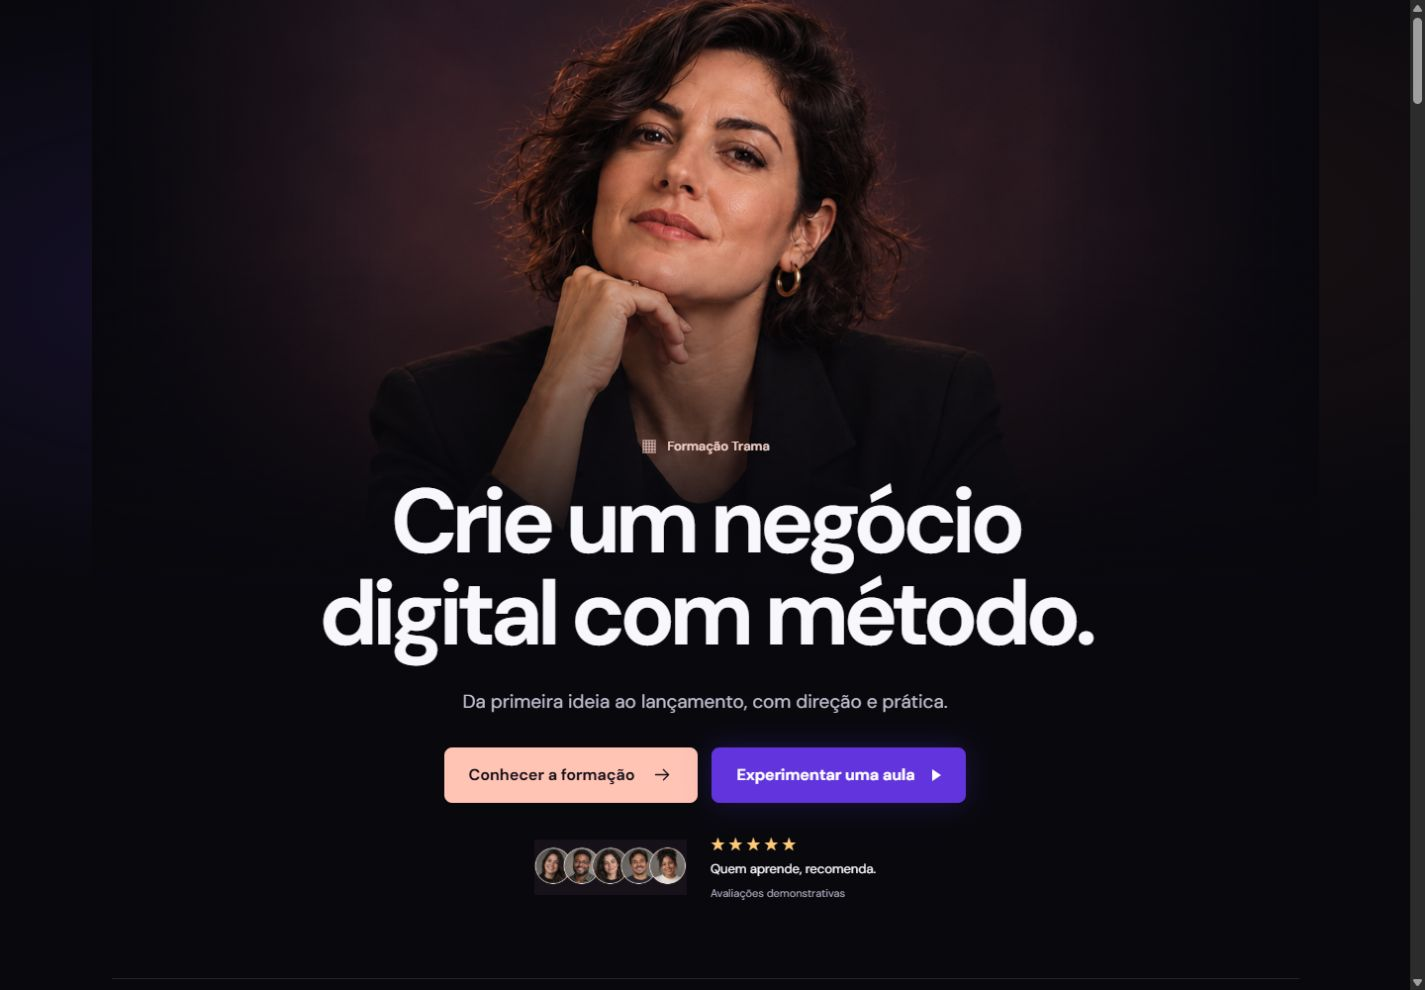
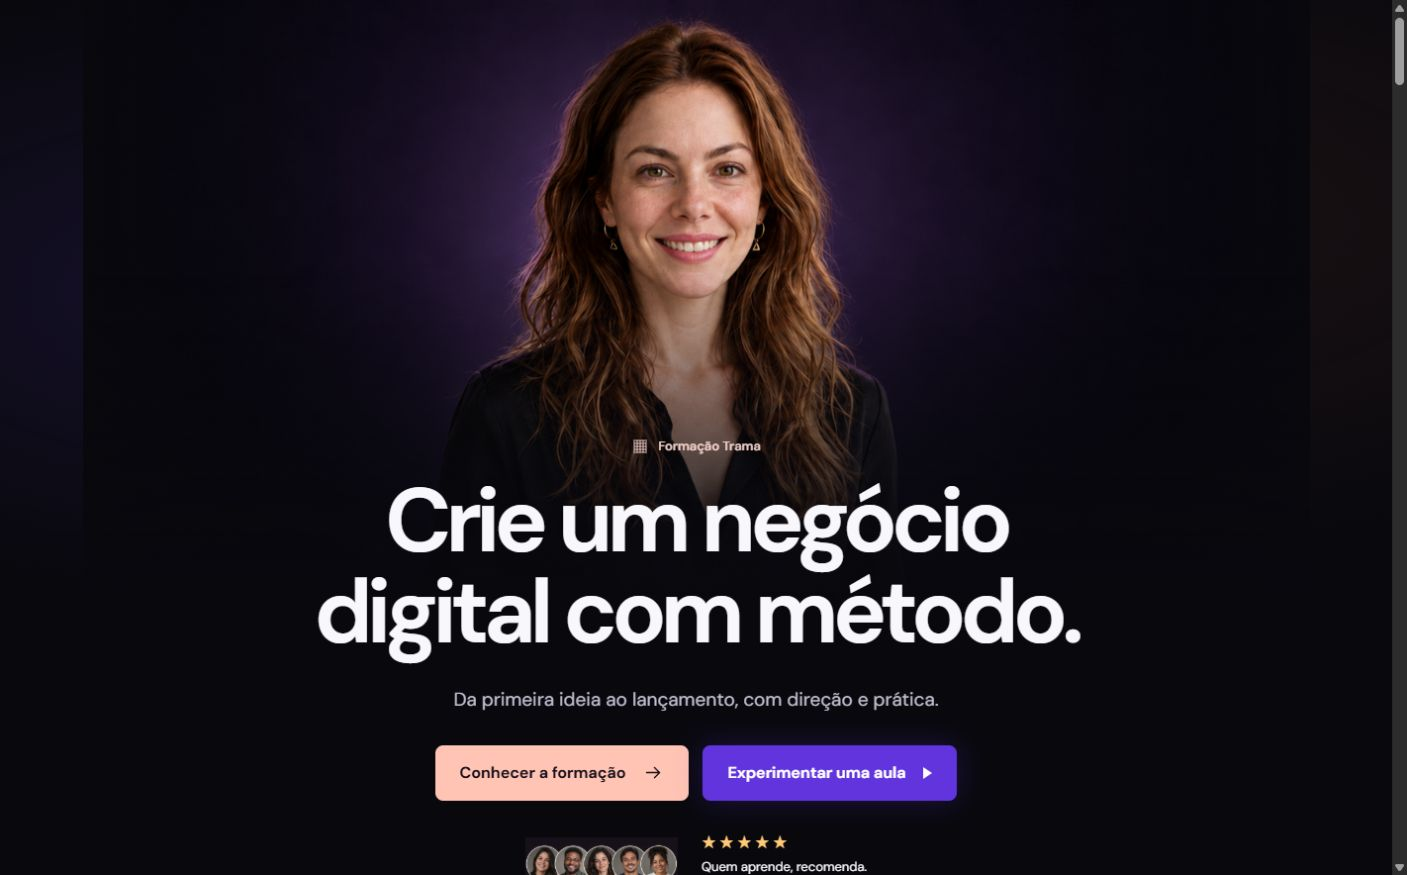
fix(sites): apresentar Bia e desobstruir painel da Trama

diff --git a/sites/website-digital-marketing/src/style.css b/sites/website-digital-marketing/src/style.css
@@ -56,7 +56,7 @@ p { line-height: 1.65; }
 .hero { position: relative; isolation: isolate; overflow: hidden; text-align: center; padding-bottom: 32px; }
 .hero-glow { position: absolute; z-index: -1; inset: 0 0 25%; background: radial-gradient(ellipse at 20% 36%, #7044d627, transparent 42%), radial-gradient(ellipse at 82% 28%, #a3564320, transparent 40%); }
 .hero-portrait { position: relative; width: min(1240px, 100%); height: clamp(450px, 43vw, 610px); margin: auto; animation: hero-enter 1.1s both; }
-.hero-portrait img { width: 100%; height: 100%; object-fit: cover; object-position: center 15%; }
+.hero-portrait img { width: 100%; height: 100%; object-fit: cover; object-position: center top; }
 .hero-portrait::after { content: ''; position: absolute; inset: 0; background: linear-gradient(0deg, var(--black) 0%, #08080de0 12%, transparent 58%), linear-gradient(90deg, var(--black), transparent 23%, transparent 77%, var(--black)); }
 .hero-content { position: relative; margin-top: -170px; z-index: 1; animation: hero-enter .9s .15s both; }
 .hero-brand { display: flex; align-items: center; justify-content: center; gap: 9px; color: #f4d2cb; font-size: 13px; font-weight: 550; margin-bottom: 20px; }
@@ -78,8 +78,8 @@ p { line-height: 1.65; }
 .icon-tile { display: inline-flex; justify-content: center; align-items: center; width: 44px; height: 44px; border: 1px solid #c7a4ff26; border-radius: 10px; color: #c4afff; background: #9e7bff10; margin-bottom: 20px; }
 .challenge-card p { font-size: 17px; line-height: 1.5; }
 .overview { padding-bottom: 70px; }
-.formation-scene { position: relative; min-height: 520px; display: flex; align-items: center; margin: 0 auto 90px; max-width: 1110px; }
-.formation-window { position: relative; width: 78%; margin-left: 16%; border: 1px solid #8a70ba66; border-radius: 14px; overflow: hidden; background: #181327; box-shadow: 0 40px 100px #0006, 0 0 130px #5833c525; }
+.formation-scene { position: relative; display: grid; grid-template-columns: minmax(0, .28fr) minmax(0, 1fr); align-items: center; gap: 28px 48px; margin: 0 auto 90px; max-width: 1110px; }
+.formation-window { position: relative; grid-column: 2; grid-row: 1; min-width: 0; border: 1px solid #8a70ba66; border-radius: 14px; overflow: hidden; background: #181327; box-shadow: 0 40px 100px #0006, 0 0 130px #5833c525; }
 .window-bar { display: flex; align-items: center; justify-content: space-between; padding: 14px 18px; background: #784cdd; color: #f8edff; font-size: 12px; }
 .window-bar > span { display: flex; align-items: center; gap: 5px; }
 .window-bar svg { width: 15px; height: 15px; margin-right: 5px; }
@@ -94,10 +94,10 @@ p { line-height: 1.65; }
 .window-modules svg { color: #c3a9ff; }
 .window-note { font-size: 12px; display: flex; align-items: center; gap: 8px; color: #b9aecf; }
 .mini-dot { width: 6px; height: 6px; border-radius: 50%; background: var(--peach); flex-shrink: 0; }
-.scene-workbook { position: absolute; width: 27%; left: 0; top: 64px; z-index: 2; transform: rotate(-7deg); border: 5px solid #f0dcce; border-radius: 8px; box-shadow: 0 30px 60px #0005; overflow: hidden; background: #f0dcce; color: #271b23; }
+.scene-workbook { grid-column: 1; grid-row: 1; width: 100%; transform: rotate(-7deg); border: 5px solid #f0dcce; border-radius: 8px; box-shadow: 0 30px 60px #0005; overflow: hidden; background: #f0dcce; color: #271b23; }
 .scene-workbook img { width: 100%; aspect-ratio: 1; object-fit: cover; }
 .scene-workbook > span { display: block; font-size: 12px; text-align: center; padding: 8px 5px; font-weight: 600; }
-.scene-note { position: absolute; bottom: 0; right: 0; display: flex; align-items: center; gap: 20px; background: var(--peach); color: #3d1f28; padding: 22px; border-radius: 10px; transform: rotate(6deg); box-shadow: 0 20px 60px #0004; }
+.scene-note { grid-column: 2; grid-row: 2; justify-self: end; margin-right: 10px; display: flex; align-items: center; gap: 20px; background: var(--peach); color: #3d1f28; padding: 22px; border-radius: 10px; transform: rotate(6deg); box-shadow: 0 20px 60px #0004; }
 .scene-note p { line-height: 1.1; font-size: 25px; letter-spacing: -.04em; font-weight: 600; }
 .feature-card { padding: 30px; border: 1px solid #ffffff1c; border-radius: 18px; background: #ffffff04; }
 .feature-card h3 { font-size: 23px; max-width: 260px; margin-bottom: 16px; }
@@ -331,7 +331,7 @@ summary::-webkit-details-marker { display: none; }
   .hero-portrait { height: 500px; }.hero-content { margin-top: -130px; }.hero h1 { font-size: clamp(49px, 7vw, 68px); }
   .hero-subtitle { font-size: 17px; }.course-facts { display: grid; grid-template-columns: 1fr 1fr; padding-block: 20px; gap: 17px; margin-top: 54px; }.course-facts > span { font-size: 12px; }
   .challenge-grid, .feature-grid { grid-template-columns: 1fr 1fr; gap: 16px; }
-  .formation-scene { min-height: 430px; margin-bottom: 60px; }.formation-window { width: 88%; margin-left: 10%; }.window-content { padding: 26px; }.window-heading > strong { font-size: 30px; }.scene-workbook { width: 27%; top: 135px; }.scene-note { padding: 15px; gap: 10px; }.scene-note p { font-size: 21px; }
+  .formation-scene { grid-template-columns: repeat(2, minmax(0, 1fr)); gap: 32px; margin-bottom: 60px; }.formation-window { grid-column: 1 / -1; }.window-content { padding: 26px; }.window-heading > strong { font-size: 30px; }.scene-workbook { grid-row: 2; width: min(230px, 100%); justify-self: center; }.scene-note { justify-self: center; margin-right: 0; padding: 15px; gap: 10px; }.scene-note p { font-size: 21px; }
   .program { padding-top: 15px; }.curriculum-grid { grid-template-columns: 1fr; }.curriculum-list { gap: 14px; }.module-card summary { padding: 21px; font-size: 16px; }.module-number { font-size: 11px; }
   .lesson-preview-card { display: grid; grid-template-columns: 1fr 1fr; }.lesson-poster { height: 340px; }.lesson-preview-copy { display: flex; flex-direction: column; justify-content: center; }
   .project-grid { grid-template-columns: 1fr; gap: 28px; }.project-card { display: grid; grid-template-columns: 1fr 1fr; }.project-copy h3 { font-size: 24px; }.project-art { height: 100%; min-height: 325px; aspect-ratio: auto; }.project-art > p { font-size: 35px; left: 24px; }.project-art-caption { left: 24px; font-size: 10px; }
@@ -348,7 +348,7 @@ summary::-webkit-details-marker { display: none; }
   .hero-content { margin-top: -95px; }.hero h1 { font-size: clamp(43px, 11.6vw, 66px); line-height: 1.02; letter-spacing: -.06em; }.hero-brand { font-size: 11px; margin-bottom: 18px; }.hero-brand svg { width: 15px; height: 15px; }.hero-subtitle { font-size: 16px; max-width: 330px; margin-top: 23px; }
   .hero-actions { flex-direction: column; align-items: stretch; gap: 12px; max-width: 360px; margin: 26px auto 0; }.hero-actions .button { min-height: 54px; font-size: 14px; }.social-proof { gap: 15px; margin-top: 26px; }.social-proof > img { width: 126px; height: 48px; }.proof-stars { font-size: 15px; letter-spacing: 2px; }.social-proof p { font-size: 11px; }.social-proof small { font-size: 10px; }.course-facts { margin-top: 40px; gap: 18px 14px; }.course-facts > span { font-size: 10px; line-height: 1.4; }.course-facts svg { width: 17px; height: 17px; }
   .challenge-grid, .feature-grid { grid-template-columns: 1fr; }.challenge-card { display: flex; align-items: center; gap: 18px; padding: 22px; min-height: 100px; border-radius: 12px; }.challenge-card .icon-tile { flex-shrink: 0; margin: 0; width: 39px; height: 39px; }.challenge-card p { font-size: 16px; }.section-closing { font-size: 12px; margin-top: 26px; }
-  .overview { padding-bottom: 55px; }.formation-scene { min-height: 440px; margin-top: 5px; margin-bottom: 50px; align-items: start; padding-top: 10px; }.formation-window { width: 100%; margin-left: 0; }.window-bar { font-size: 10px; padding: 12px; }.window-bar > span:last-child { display: none; }.window-content { padding: 24px 19px 28px; }.window-heading > span { font-size: 10px; }.window-heading > strong { font-size: 29px; }.window-modules { margin-top: 24px; gap: 9px; }.window-modules > div { padding: 11px 9px; gap: 7px; }.window-modules p { font-size: 10px; }.window-modules > div > span { font-size: 10px; }.window-modules svg { display: none; }.window-note { font-size: 9px; }.scene-workbook { width: 135px; top: auto; bottom: 3px; left: 18px; }.scene-workbook > span { font-size: 9px; padding: 5px; }.scene-note { right: 7px; bottom: 14px; gap: 10px; padding: 14px; }.scene-note p { font-size: 20px; }.scene-note svg { width: 22px; height: 22px; }
+  .overview { padding-bottom: 55px; }.formation-scene { gap: 28px 16px; margin-top: 5px; margin-bottom: 50px; padding-top: 10px; }.window-bar { font-size: 10px; padding: 12px; }.window-bar > span:last-child { display: none; }.window-content { padding: 24px 19px 28px; }.window-heading > span { font-size: 10px; }.window-heading > strong { font-size: 29px; }.window-modules { margin-top: 24px; gap: 9px; }.window-modules > div { padding: 11px 9px; gap: 7px; }.window-modules p { font-size: 10px; }.window-modules > div > span { font-size: 10px; }.window-modules svg { display: none; }.window-note { font-size: 9px; }.scene-workbook { width: min(135px, 100%); }.scene-workbook > span { font-size: 9px; padding: 5px; }.scene-note { gap: 10px; padding: 14px; }.scene-note p { font-size: 20px; }.scene-note svg { width: 22px; height: 22px; }
   .feature-card { padding: 26px; border-radius: 14px; }.feature-card h3 { font-size: 23px; max-width: none; margin-bottom: 14px; }.feature-card p { font-size: 14px; }.feature-card .icon-tile { margin-bottom: 20px; }
   .program { padding-top: 10px; }.curriculum-grid { gap: 26px; }.module-card summary { padding: 18px 14px; gap: 9px; font-size: 14px; min-height: 72px; }.module-number { font-size: 9px; padding: 5px 7px; }.module-chevron { font-size: 26px; }.module-body { padding: 0 18px 20px; }.module-body > p { font-size: 13px; }.lesson-list li { font-size: 12px; gap: 8px; }.lesson-list button { font-size: 12px; }.lesson-list time { font-size: 10px; }.module-deliverable { padding: 12px; gap: 9px; }.module-deliverable strong { font-size: 12px; }
   .lesson-preview-card { display: block; }.lesson-poster { height: 320px; }.poster-copy { font-size: 36px; bottom: 76px; left: 22px; }.poster-format { left: 22px; font-size: 10px; }.poster-tag { left: 22px; }.poster-play { right: 22px; top: 22px; bottom: auto; width: 50px; height: 50px; }.lesson-preview-copy { padding: 25px; }.lesson-preview-copy h3 { font-size: 23px; }.lesson-preview-copy > p { font-size: 14px; }.program-footnote { font-size: 11px; margin-top: 26px; }

diff --git a/sites/website-digital-marketing/src/App.jsx b/sites/website-digital-marketing/src/App.jsx
@@ -145,7 +145,7 @@ export default function App() {
     <main id="conteudo">
       <section className="hero" aria-labelledby="hero-title">
         <div className="hero-glow" aria-hidden="true" />
-        <div className="hero-portrait"><img src={asset('art/instructor.png')} alt="Nora Vasconcelos, instrutora fictícia da Trama" width="1586" height="992" fetchPriority="high" /></div>
+        <div className="hero-portrait"><img src={asset('art/instructor.png')} alt="Bia, embaixadora de IA da ibe.IA, sorridente e confiante" width="1586" height="992" fetchPriority="high" /></div>
         <div className="hero-content container">
           <p className="hero-brand"><Mark /> Formação Trama</p>
           <h1 id="hero-title">Crie um negócio<br className="desktop-break" /> digital com método.</h1>
@@ -187,11 +187,11 @@ export default function App() {
       </section>
 
       <section className="mentoring section-space section-indigo" aria-labelledby="mentoring-title"><div className="container"><SectionTitle label="Troca que faz avançar" description="Uma pergunta no momento certo pode mudar o rumo de um projeto."><span id="mentoring-title">Você não precisa<br />pensar em tudo sozinho.</span></SectionTitle>
-        <div className="feedback-board"><div className="feedback-draft"><span>Meu primeiro rascunho</span><strong>Quero ajudar<br />todo mundo a<br />se organizar.</strong><span className="draft-strike" aria-hidden="true" /><p>Recorte, teste e uma nova tentativa.</p></div><div className="feedback-message"><div><span className="person-badge">N</span><p>Nora<span>Exemplo de acompanhamento</span></p></div><p>E se você começar pelas pessoas que trabalham por conta própria e precisam organizar a semana?</p><span>Uma conversa abre outra possibilidade.</span></div><div className="feedback-result"><Icon name="spark" size={28} /><p>Agora ficou<br /><strong>mais claro.</strong></p><span>Uma oficina para organizar<br />a rotina de quem trabalha por conta.</span></div></div>
+        <div className="feedback-board"><div className="feedback-draft"><span>Meu primeiro rascunho</span><strong>Quero ajudar<br />todo mundo a<br />se organizar.</strong><span className="draft-strike" aria-hidden="true" /><p>Recorte, teste e uma nova tentativa.</p></div><div className="feedback-message"><div><span className="person-badge">B</span><p>Bia<span>Exemplo de acompanhamento</span></p></div><p>E se você começar pelas pessoas que trabalham por conta própria e precisam organizar a semana?</p><span>Uma conversa abre outra possibilidade.</span></div><div className="feedback-result"><Icon name="spark" size={28} /><p>Agora ficou<br /><strong>mais claro.</strong></p><span>Uma oficina para organizar<br />a rotina de quem trabalha por conta.</span></div></div>
         <div className="support-grid"><article><Icon name="message" /><h3>Feedback com contexto</h3><p>Veja exemplos de perguntas que ajudam a melhorar uma entrega sem perder a sua ideia.</p></article><article><Icon name="people" /><h3>Aprendizado em companhia</h3><p>Conheça uma proposta de troca entre pessoas que estão construindo seus primeiros projetos.</p></article><article><Icon name="target" /><h3>Um passo possível</h3><p>Uma jornada para experimentar, ouvir o retorno e seguir com mais direção.</p></article></div><p className="program-footnote">Acompanhamento e comunidade ilustram a proposta da formação. Não há chat ou serviço conectado nesta demonstração.</p>
       </div></section>
 
-      <section className="instructor section-space container" aria-labelledby="instructor-title"><div className="instructor-grid"><div className="instructor-image"><img src={asset('art/instructor.png')} alt="Retrato de Nora Vasconcelos, personagem fictícia da formação Trama" width="1586" height="992" loading="lazy" /><span className="instructor-signature">Nora Vasconcelos</span></div><div className="instructor-copy"><p className="section-label">Sua guia na formação</p><h2 id="instructor-title">Menos informação solta.<br />Mais clareza para fazer.</h2><p>Na Trama, Nora conduz cada etapa com perguntas simples, exemplos e espaço para você pensar no próprio negócio.</p><p>A proposta é trocar o excesso de possibilidades por um caminho que você consegue acompanhar, experimentar e colocar no papel.</p><div className="instructor-principles"><span><Icon name="check" size={18} /> Exemplos com contexto</span><span><Icon name="check" size={18} /> Decisões que viram prática</span><span><Icon name="check" size={18} /> Espaço para o seu jeito</span></div><button className="inline-link" onClick={(event) => openDialog('lesson', event)}>Conheça a proposta na mini-aula <Arrow /></button><p className="fiction-note">Nora é uma instrutora fictícia. Retratos criados com IA para este template.</p></div></div></section>
+      <section className="instructor section-space container" aria-labelledby="instructor-title"><div className="instructor-grid"><div className="instructor-image"><img src={asset('art/instructor.png')} alt="Retrato da Bia, embaixadora de IA da ibe.IA" width="1586" height="992" loading="lazy" /><span className="instructor-signature">Bia</span></div><div className="instructor-copy"><p className="section-label">Sua guia na formação</p><h2 id="instructor-title">Menos informação solta.<br />Mais clareza para fazer.</h2><p>Na Trama, Bia apresenta cada etapa com perguntas simples, exemplos e espaço para você pensar no próprio negócio.</p><p>A proposta é trocar o excesso de possibilidades por um caminho que você consegue acompanhar, experimentar e colocar no papel.</p><div className="instructor-principles"><span><Icon name="check" size={18} /> Exemplos com contexto</span><span><Icon name="check" size={18} /> Decisões que viram prática</span><span><Icon name="check" size={18} /> Espaço para o seu jeito</span></div><button className="inline-link" onClick={(event) => openDialog('lesson', event)}>Conheça a proposta na mini-aula <Arrow /></button><p className="fiction-note">Bia é a embaixadora de IA da ibe.IA. Retrato gerado por IA; formação e acompanhamento demonstrativos.</p></div></div></section>
 
       <section className="reviews section-space container" aria-labelledby="reviews-title"><SectionTitle label="Avaliações demonstrativas" description="Depoimentos fictícios para ilustrar esta seção do template."><span id="reviews-title">Aprender faz sentido<br />quando a ideia ganha forma.</span></SectionTitle><div className="review-grid">{[
         ['AM', 'Ana Martins', 'Eu tinha várias ideias e nenhuma ordem. O exercício de escrever a proposta em uma frase ajudou a encontrar um começo.'],

diff --git a/sites/website-digital-marketing/README.md b/sites/website-digital-marketing/README.md
@@ -40,16 +40,16 @@ Substitua os assets abaixo por arquivos de mesmo nome ou atualize os caminhos em
 
 | Arquivo | Uso |
 | --- | --- |
-| `public/art/instructor.png` | Retrato fictício central no hero e na seção da instrutora |
+| `public/art/instructor.png` | Bia sorridente e confiante no hero, mini-aula e apresentação |
 | `public/art/avatars.png` | Faixa de cinco rostos fictícios na prova social |
 | `public/art/course.png` | Composição de materiais didáticos da formação |
 | `public/fonts/display.woff2` | Newsreader variável, assinatura e detalhe de um projeto |
 | `public/fonts/body.woff2` | DM Sans variável, títulos, corpo e controles |
 
-As fontes usam `font-display: swap` e fallback Arial/Georgia apropriado ao uso. Imagens e fontes são locais. As três artes nativas existentes foram preservadas; a nova composição usa HTML/CSS real. Consulte os avisos de assets/fontes fornecidos com o pacote; a licença Apache da base não substitui licenças de terceiros.
+As fontes usam `font-display: swap` e fallback Arial/Georgia apropriado ao uso. Imagens e fontes são locais. O retrato da Bia foi criado no ImageGen nativo com sua referência canônica da ibe.IA. Avatares e materiais didáticos foram preservados; a composição usa HTML/CSS real. Prompts e referência por SHA estão em art-prompts.json. O caderno e o painel da formação ocupam áreas distintas de uma grade responsiva, sem encobrir títulos ou módulos. Consulte os avisos de assets/fontes fornecidos com o pacote; a licença Apache da base não substitui licenças de terceiros.
 
 ## Limites da demonstração
 
-Trama, Nora Vasconcelos, retratos, avaliações, projetos, mentoria/comunidade, módulos, durações, planos e valores são demonstrativos. Não representam uma formação disponível, alunos, depoimentos ou resultados reais. As imagens foram geradas por IA. Não há matrícula, autenticação, backend, chat, compra, cobrança ou envio de e-mail.
+Bia é a embaixadora de IA da ibe.IA, apresentada aqui com retrato gerado por IA e sem biografia ou depoimento real. Trama, avatares de alunos, avaliações, projetos, mentoria/comunidade, módulos, durações, planos e valores são demonstrativos. Não representam uma formação disponível, alunos, depoimentos ou resultados reais. As imagens foram geradas por IA. Não há matrícula, autenticação, backend, chat, compra, cobrança ou envio de e-mail.
 
 Antes de usar para uma formação real, substitua o conteúdo fictício, faça revisão de oferta e direitos de imagem e conecte o formulário ao serviço escolhido, com os avisos e a política de privacidade correspondentes. A integração com o serviço deve ser testada separadamente da experiência local deste template.

diff --git a/sites/website-digital-marketing/NOTICE.md b/sites/website-digital-marketing/NOTICE.md
@@ -3,7 +3,11 @@
 Base técnica: pacote completo `web-landing-page` do SquadOS Studio, sob Apache-2.0.
 O arquivo LICENSE preserva a licença da base e deste template. Composição, textos,
 componentes e arte criada no ImageGen nativo pertencem à produção deste acervo;
-marcas, pessoas, situações, avaliações e dados são demonstrativos.
+Trama, avatares de alunos, situações, avaliações e dados são demonstrativos.
+O retrato da Bia, embaixadora de IA da ibe.IA, foi gerado no ImageGen nativo
+a partir da identidade canônica fornecida pelo acervo da ibe.IA, por solicitação
+do usuário. Não representa instrutora real, experiência ou testemunho.
+A referência de identidade e os prompts estão registrados em art-prompts.json.
 
 Fontes locais derivadas de Google Fonts: DM Sans e Newsreader, sob SIL Open Font License 1.1.
 As licenças/copyrights integrais estão em public/fonts/*-OFL.txt; URLs e hashes em assets.json.
